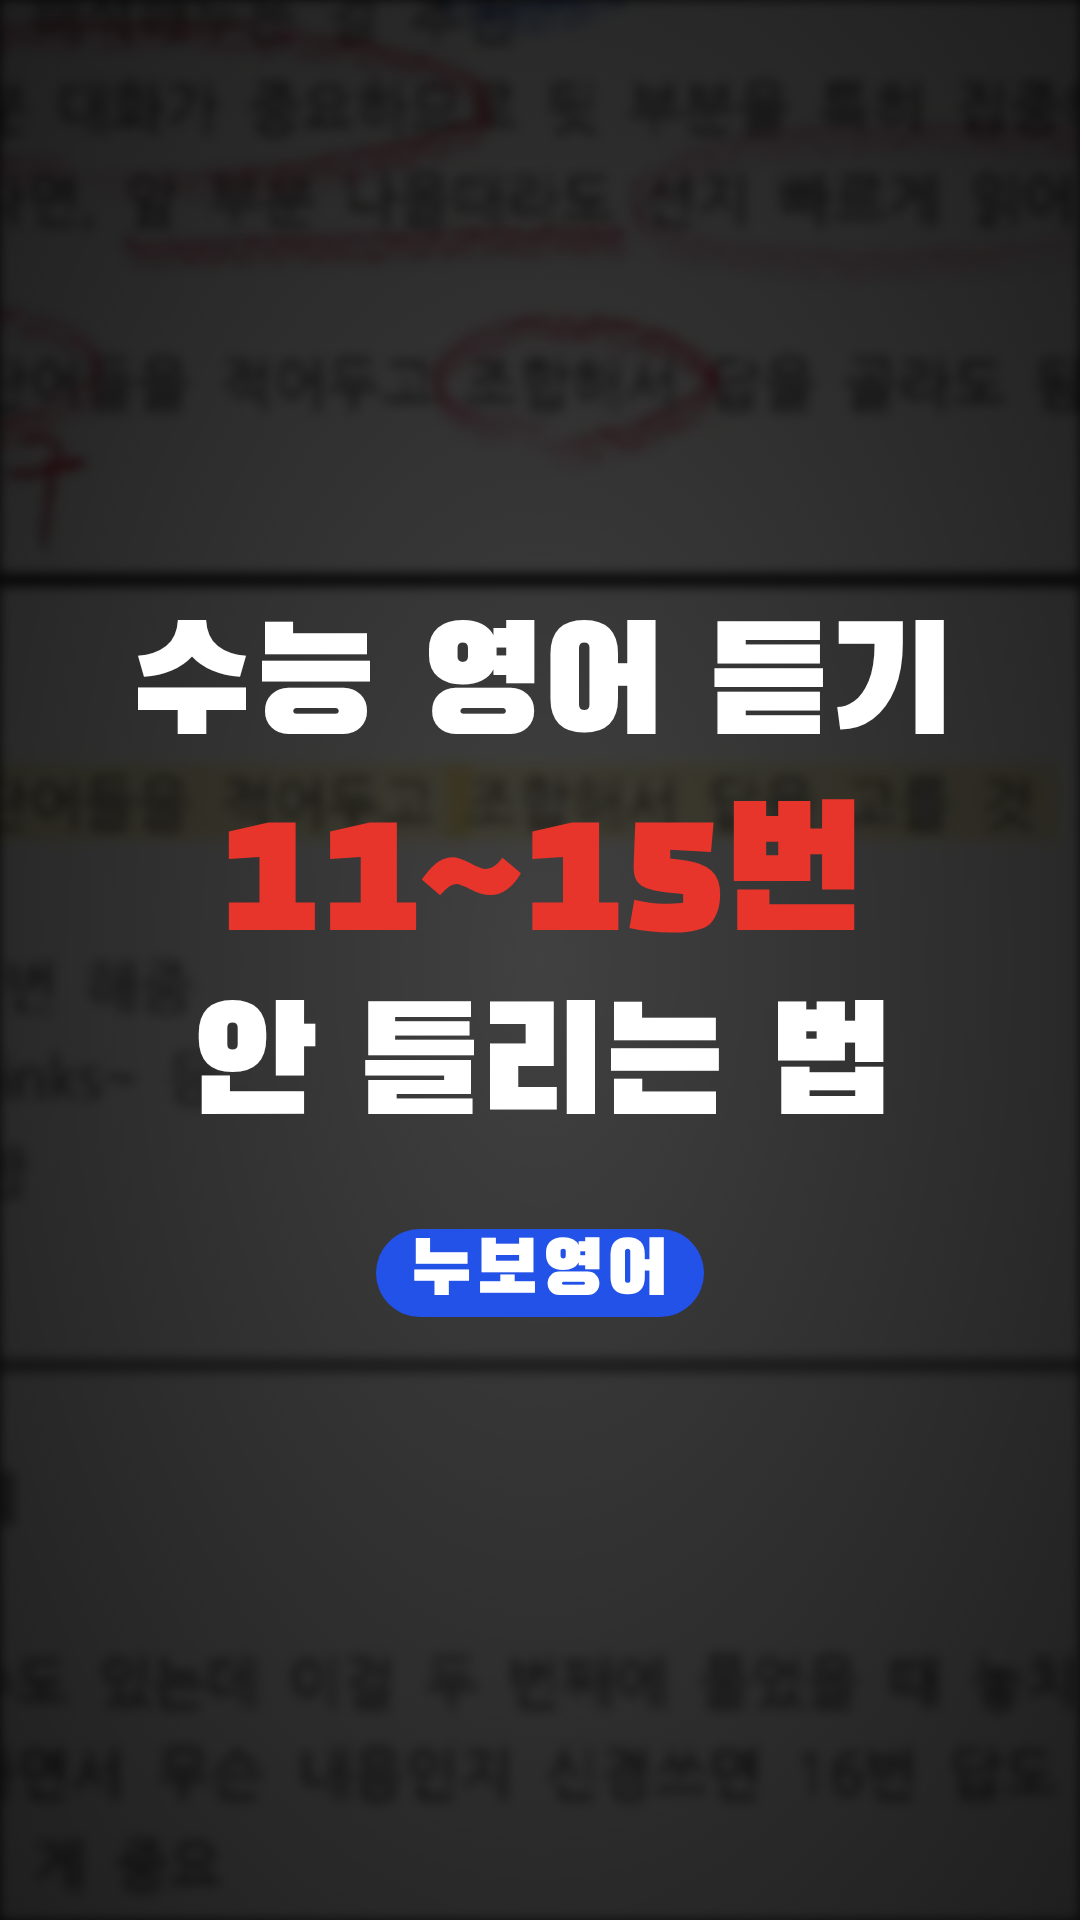
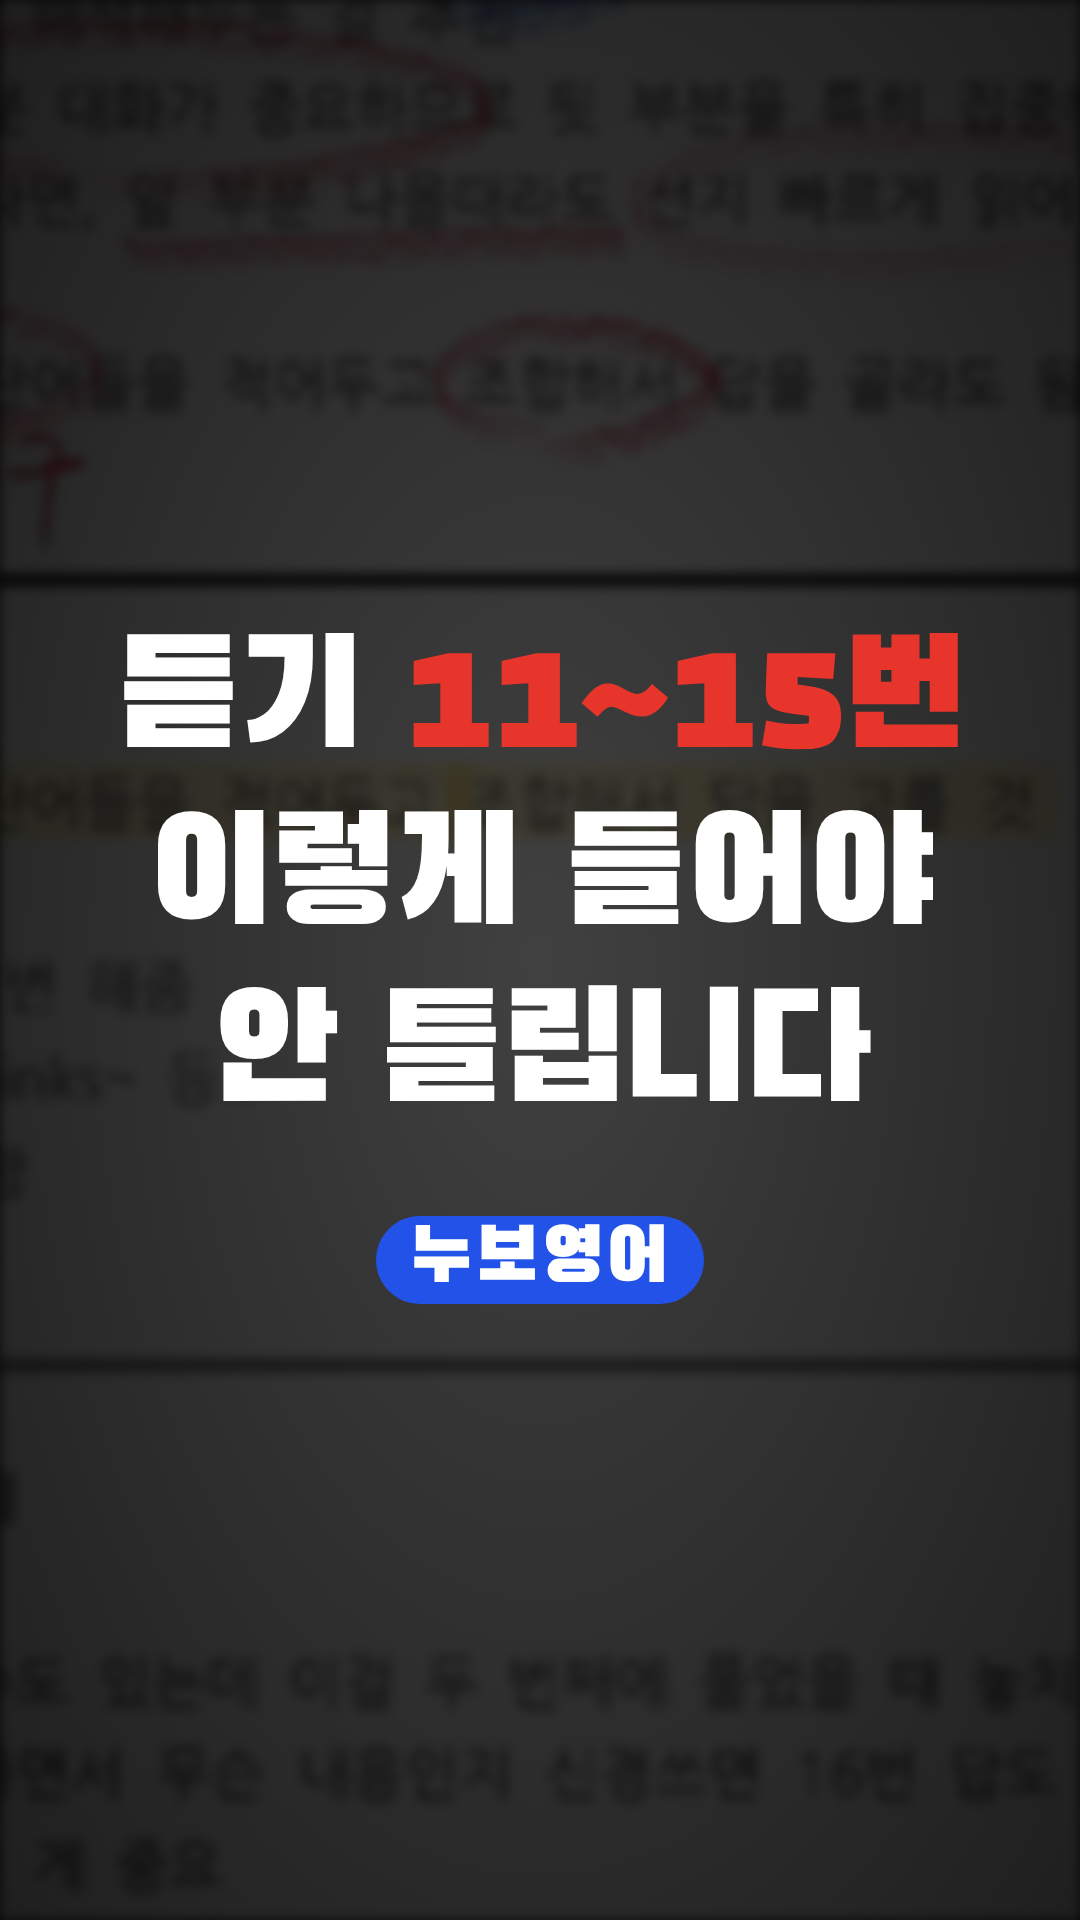
Listening cover: 듣기 11~15번 / 이렇게 들어야 / 안 틀립니다
Claude-Session: https://claude.ai/code/session_01Rym27oCy7NFVPU9s4bdxz4

Changed region(s): [[0.0917, 0.3125, 0.8861, 0.5938], [0.3361, 0.625, 0.6417, 0.6875]]

diff --git a/motion/src/Root.tsx b/motion/src/Root.tsx
@@ -60,9 +60,9 @@ export const RemotionRoot: React.FC = () => (
       defaultProps={{video: 'listen.mp4', lines: listenLines, zooms: listenZooms, title: '수능 영어 듣기\n{11~15번} 안 틀리는 법',
         crop: {x: 290, y: 0, w: 1340, h: 905}, winTop: 420}} />
     <Composition id="ListenCoverLight" component={Cover} fps={30} width={1080} height={1920} durationInFrames={1}
-      defaultProps={{dark: false, lines: ['수능 영어 듣기', '{11~15번}', '안 틀리는 법']}} />
+      defaultProps={{dark: false, lines: ['듣기 {11~15번}', '이렇게 들어야', '안 틀립니다']}} />
     <Composition id="ListenCoverDark" component={Cover} fps={30} width={1080} height={1920} durationInFrames={1}
-      defaultProps={{dark: true, lines: ['수능 영어 듣기', '{11~15번}', '안 틀리는 법'], bg: 'cover_listen_bg.jpg'}} />
+      defaultProps={{dark: true, lines: ['듣기 {11~15번}', '이렇게 들어야', '안 틀립니다'], bg: 'cover_listen_bg.jpg'}} />
     <Composition id="EmoReel" component={Emo} fps={FPS} width={1080} height={1920} durationInFrames={568}
       defaultProps={{video: 'rp_base.mp4', cues: [
         // clip 1: 혹시 올해 수능봐..? / 그렇다면 이 릴스가 / 수능 전 최고의 기회

diff --git a/motion/src/tip/Cover.tsx b/motion/src/tip/Cover.tsx
@@ -8,10 +8,15 @@ const BLUE = '#2352E8', RED = '#E8352B';
 export type CoverProps = {dark?: boolean; lines?: string[]; bg?: string};
 const DEFAULT = ['해석 못해도', '{주제 1분컷}', '하는 법'];
 
+// A line that is entirely {..} is the big red accent line; {..} inside a line colours just that part.
 const Line: React.FC<{t: string; dark?: boolean}> = ({t, dark}) => {
-  const accent = t.startsWith('{');
-  const text = t.replace(/[{}]/g, '');
-  return <div style={{fontSize: accent ? 172 : 150, color: accent ? RED : dark ? '#fff' : BLUE, whiteSpace: 'nowrap'}}>{text}</div>;
+  const whole = /^\{[^}]*\}$/.test(t);
+  const base = dark ? '#fff' : BLUE;
+  return (
+    <div style={{fontSize: whole ? 172 : 150, color: whole ? RED : base, whiteSpace: 'nowrap'}}>
+      {t.split(/(\{[^}]+\})/).filter(Boolean).map((p, i) => p.startsWith('{') ? <span key={i} style={{color: RED}}>{p.slice(1, -1)}</span> : <React.Fragment key={i}>{p}</React.Fragment>)}
+    </div>
+  );
 };
 
 export const Cover: React.FC<CoverProps> = ({dark, lines = DEFAULT, bg = 'cover_bg.jpg'}) => (
